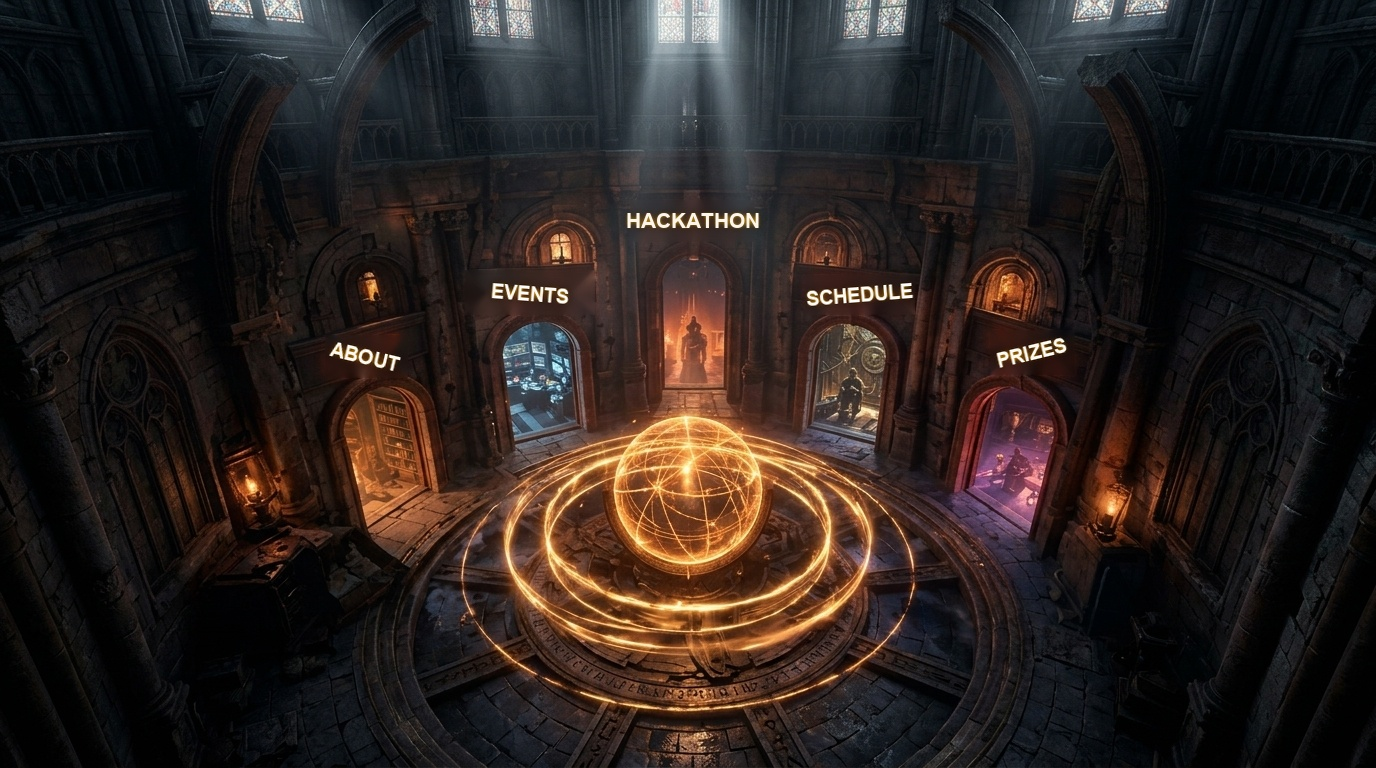
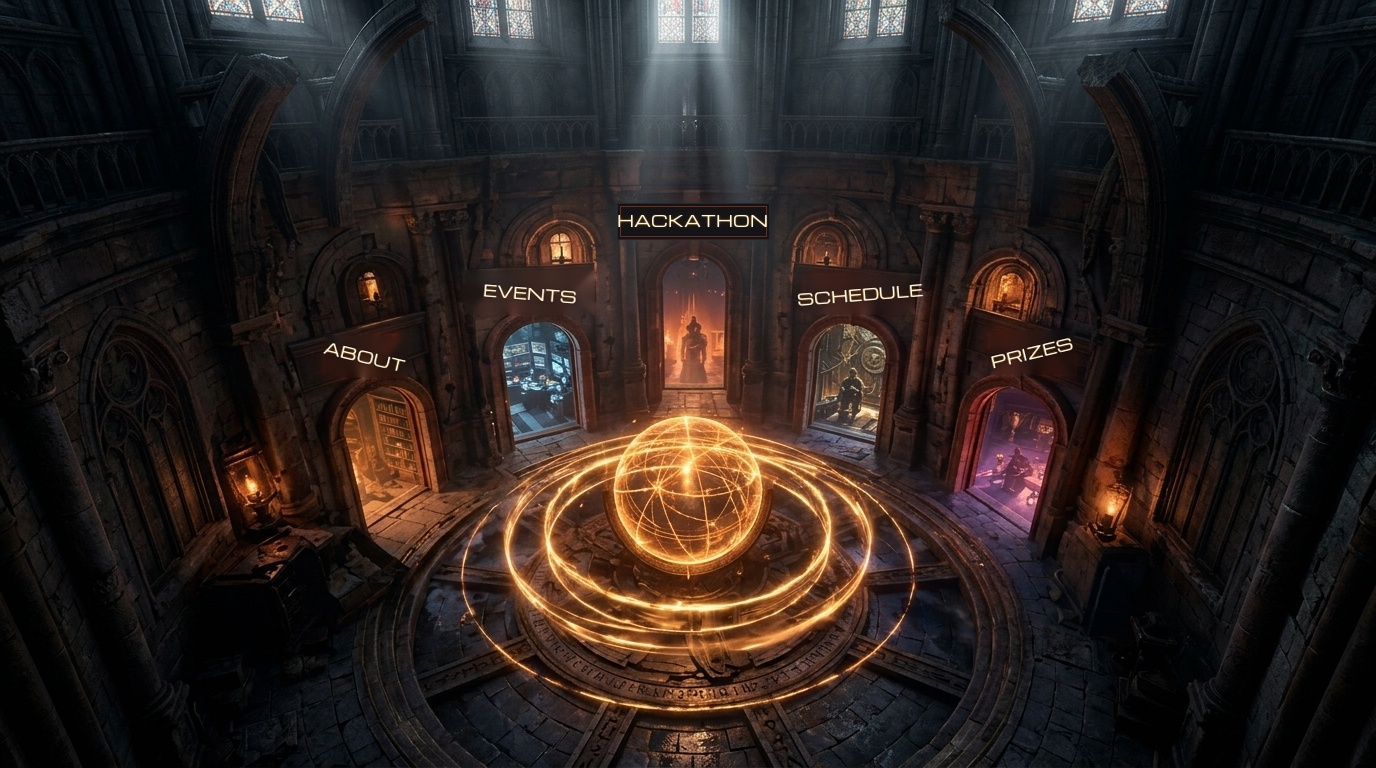
fix: anchor spider thread to ceiling, remove cash prize amounts, unify chamber naming, reduce scroll hold delay

diff --git a/index.html b/index.html
@@ -216,15 +216,15 @@
           <div class="gothic-arch-portal-card chamber-card door-events" data-chamber="events">
             <div class="card-glass-surface">
               <div class="chamber-card-top">
-                <span class="chamber-badge cyan"><span class="badge-dot cyan"></span> 02</span>
-                <i class="fa-solid fa-terminal chamber-icon cyan"></i>
+                <span class="chamber-badge"><span class="badge-dot"></span> 02</span>
+                <i class="fa-solid fa-terminal chamber-icon"></i>
               </div>
               <div class="chamber-info">
                 <h3 class="chamber-heading">EVENTS</h3>
                 <p class="chamber-subtext">Workshops & Coding Contests</p>
               </div>
               <div class="chamber-action">
-                <span class="chamber-cta-btn cyan">ENTER <i class="fa-solid fa-arrow-right"></i></span>
+                <span class="chamber-cta-btn">ENTER <i class="fa-solid fa-arrow-right"></i></span>
               </div>
             </div>
           </div>
@@ -234,15 +234,15 @@
             <div class="featured-glow-pill"><i class="fa-solid fa-crown"></i> FLAGSHIP</div>
             <div class="card-glass-surface featured">
               <div class="chamber-card-top">
-                <span class="chamber-badge gold"><span class="badge-dot gold"></span> 03</span>
-                <i class="fa-solid fa-laptop-code chamber-icon gold"></i>
+                <span class="chamber-badge"><span class="badge-dot"></span> 03</span>
+                <i class="fa-solid fa-laptop-code chamber-icon"></i>
               </div>
               <div class="chamber-info">
-                <h3 class="chamber-heading gold">HACKATHON</h3>
+                <h3 class="chamber-heading">HACKATHON</h3>
                 <p class="chamber-subtext">12-Hour Flagship Sprint</p>
               </div>
               <div class="chamber-action">
-                <span class="chamber-cta-btn gold">JOIN SPRINT <i class="fa-solid fa-arrow-right"></i></span>
+                <span class="chamber-cta-btn">ENTER <i class="fa-solid fa-arrow-right"></i></span>
               </div>
             </div>
           </div>
@@ -259,7 +259,7 @@
                 <p class="chamber-subtext">3-Day Event Timetable</p>
               </div>
               <div class="chamber-action">
-                <span class="chamber-cta-btn">TIMELINE <i class="fa-solid fa-arrow-right"></i></span>
+                <span class="chamber-cta-btn">ENTER <i class="fa-solid fa-arrow-right"></i></span>
               </div>
             </div>
           </div>
@@ -268,15 +268,15 @@
           <div class="gothic-arch-portal-card chamber-card door-prizes" data-chamber="prizes">
             <div class="card-glass-surface">
               <div class="chamber-card-top">
-                <span class="chamber-badge gold"><span class="badge-dot gold"></span> 05</span>
-                <i class="fa-solid fa-trophy chamber-icon gold"></i>
+                <span class="chamber-badge"><span class="badge-dot"></span> 05</span>
+                <i class="fa-solid fa-trophy chamber-icon"></i>
               </div>
               <div class="chamber-info">
                 <h3 class="chamber-heading">PRIZES</h3>
-                <p class="chamber-subtext">Trophies, Medals & Cash</p>
+                <p class="chamber-subtext">Trophies, Medals & Honors</p>
               </div>
               <div class="chamber-action">
-                <span class="chamber-cta-btn">AWARDS <i class="fa-solid fa-arrow-right"></i></span>
+                <span class="chamber-cta-btn">ENTER <i class="fa-solid fa-arrow-right"></i></span>
               </div>
             </div>
           </div>
@@ -417,7 +417,7 @@
         <div class="podium-rank-badge">RUNNER-UP</div>
         <div class="podium-trophy-icon"><i class="fa-solid fa-medal"></i></div>
         <h3 class="podium-title">1st Runner-Up</h3>
-        <p class="podium-detail">Trophy, Silver Medals & Cash Prize</p>
+        <p class="podium-detail">Trophy, Silver Medals & Citations</p>
         <div class="podium-perk-badge">Official TechKnow Honors</div>
       </div>
 
@@ -425,7 +425,7 @@
         <div class="podium-rank-badge gold-badge"><i class="fa-solid fa-crown"></i> GRAND CHAMPION</div>
         <div class="podium-trophy-icon gold"><i class="fa-solid fa-trophy"></i></div>
         <h3 class="podium-title">Grand Champion</h3>
-        <p class="podium-detail">Perpetual CODEC Trophy, Gold Medals & Cash Prize</p>
+        <p class="podium-detail">Perpetual CODEC Trophy, Gold Medals & Championship Honors</p>
         <div class="podium-perk-badge gold-perk">Winner Honors</div>
       </div>
 
@@ -433,7 +433,7 @@
         <div class="podium-rank-badge">2ND RUNNER-UP</div>
         <div class="podium-trophy-icon"><i class="fa-solid fa-award"></i></div>
         <h3 class="podium-title">2nd Runner-Up</h3>
-        <p class="podium-detail">Trophy, Bronze Medals & Cash Prize</p>
+        <p class="podium-detail">Trophy, Bronze Medals & Citations</p>
         <div class="podium-perk-badge">Official TechKnow Honors</div>
       </div>
     </div>

diff --git a/src/cinematic/ChamberManager.js b/src/cinematic/ChamberManager.js
@@ -61,8 +61,8 @@ export const CHAMBERS = {
           </div>
           <div class="stat-divider"></div>
           <div class="stat-row">
-            <span class="stat-val">₹1,00,000+</span>
-            <span class="stat-lbl">REWARDS & CITATIONS</span>
+            <span class="stat-val">HONORS</span>
+            <span class="stat-lbl">TROPHIES & CITATIONS</span>
           </div>
         </div>
       </div>
@@ -272,14 +272,14 @@ export const CHAMBERS = {
     accentColor: '#facc15',
     bg: '/assets/arch_prizes.jpg',
     doorThumb: '/assets/arch_prizes.jpg',
-    tagline: 'Perpetual trophies, gold medals, citations, and cash honors for summit champions.',
+    tagline: 'Perpetual trophies, gold medals, citations, and exclusive honors for summit champions.',
     contentHtml: `
       <div class="chamber-awards-triptych">
         <div class="award-pedestal runner-up-1">
           <div class="award-rank">RUNNER-UP</div>
           <div class="award-badge-icon"><i class="fa-solid fa-medal"></i></div>
           <h4 class="award-name">1st Runner-Up</h4>
-          <p class="award-prize">Silver Medals, Trophy & Cash Honors</p>
+          <p class="award-prize">Silver Medals, Trophy &amp; Official Citations</p>
           <div class="award-perk">Official TechKnow Citation</div>
         </div>
 
@@ -287,7 +287,7 @@ export const CHAMBERS = {
           <div class="award-rank gold"><i class="fa-solid fa-crown"></i> GRAND CHAMPION</div>
           <div class="award-badge-icon gold-glow"><i class="fa-solid fa-trophy"></i></div>
           <h4 class="award-name gold">Grand Champion</h4>
-          <p class="award-prize">Perpetual CODEC Trophy, Gold Medals & Cash Pool</p>
+          <p class="award-prize">Perpetual CODEC Trophy, Gold Medals &amp; Championship Honors</p>
           <div class="award-perk gold">Highest Institutional Honors</div>
         </div>
 
@@ -295,7 +295,7 @@ export const CHAMBERS = {
           <div class="award-rank">2ND RUNNER-UP</div>
           <div class="award-badge-icon"><i class="fa-solid fa-award"></i></div>
           <h4 class="award-name">2nd Runner-Up</h4>
-          <p class="award-prize">Bronze Medals, Trophy & Cash Honors</p>
+          <p class="award-prize">Bronze Medals, Trophy &amp; Official Citations</p>
           <div class="award-perk">Official TechKnow Citation</div>
         </div>
       </div>

diff --git a/src/style.css b/src/style.css
@@ -497,43 +497,53 @@ p,
   z-index: 85;
   pointer-events: auto;
   cursor: pointer;
-  animation: spiderDescend 12s infinite ease-in-out;
+  /* Rig stays anchored at top: 0 so the thread is always attached to the ceiling */
   transform-origin: top center;
+  display: flex;
+  flex-direction: column;
+  align-items: center;
 }
 
 .spider-thread {
-  width: 1px;
-  height: 90px;
+  width: 1.5px;
+  /* Thread height animates — spider descends by thread growing, always anchored at top */
+  height: 50px;
   margin: 0 auto;
-  background: linear-gradient(180deg, rgba(255, 255, 255, 0.6) 0%, rgba(200, 200, 200, 0.25) 100%);
-  box-shadow: 0 0 2px rgba(255, 255, 255, 0.4);
+  background: linear-gradient(180deg, rgba(255, 255, 255, 0.7) 0%, rgba(200, 200, 200, 0.3) 100%);
+  box-shadow: 0 0 2px rgba(255, 255, 255, 0.45);
+  animation: threadGrow 12s infinite ease-in-out;
+  transform-origin: top center;
+  flex-shrink: 0;
 }
 
 .spider-critter {
   width: 44px;
   height: 44px;
-  margin: -6px auto 0;
+  margin: -2px auto 0;
   filter: drop-shadow(0 4px 8px rgba(0, 0, 0, 0.9));
   animation: spiderSway 3.5s infinite ease-in-out;
   transform-origin: top center;
   transition: transform 0.25s ease;
+  flex-shrink: 0;
 }
 
 .spooky-spider-rig:hover .spider-critter {
   transform: scale(1.2) rotate(15deg);
 }
 
-@keyframes spiderDescend {
-  0% { transform: translateY(-40px); }
-  25% { transform: translateY(60px); }
-  50% { transform: translateY(120px); }
-  75% { transform: translateY(30px); }
-  100% { transform: translateY(-40px); }
+/* Thread grows/shrinks — this makes the spider appear to climb up and down
+   while the top of the thread stays pinned to the viewport ceiling */
+@keyframes threadGrow {
+  0%   { height: 50px; }
+  25%  { height: 110px; }
+  50%  { height: 160px; }
+  75%  { height: 80px; }
+  100% { height: 50px; }
 }
 
 @keyframes spiderSway {
-  0%, 100% { transform: rotate(-6deg); }
-  50% { transform: rotate(6deg); }
+  0%, 100% { transform: rotate(-5deg); }
+  50% { transform: rotate(5deg); }
 }
 
 /* ==========================================================================
@@ -607,7 +617,7 @@ p,
 .mansion-scroll-stage {
   position: relative;
   width: 100%;
-  height: 650vh;
+  height: 380vh;
   z-index: 10;
 }
 

diff --git a/src/cinematic/cinematic.css b/src/cinematic/cinematic.css
@@ -339,21 +339,17 @@
   margin-bottom: 0.35rem;
 }
 
-.chamber-heading {
+.chamber-heading,
+.chamber-heading.gold {
   font-family: var(--font-display);
-  font-size: clamp(0.8rem, 1.25vw, 0.98rem);
+  font-size: clamp(0.85rem, 1.3vw, 1.05rem);
   font-weight: 800;
-  letter-spacing: clamp(0.7px, 0.16vw, 1.2px);
+  letter-spacing: clamp(0.8px, 0.18vw, 1.4px);
   color: #ffffff;
   margin-bottom: 0.2rem;
   line-height: 1.25;
-  text-shadow: 0 0 10px rgba(255, 120, 0, 0.35);
+  text-shadow: 0 0 12px rgba(255, 140, 0, 0.45);
   word-break: break-word;
-}
-
-.chamber-heading.gold {
-  color: #ffd700;
-  text-shadow: 0 0 14px rgba(255, 106, 0, 0.6);
 }
 
 .chamber-subtext {

diff --git a/server/routes/stats.js b/server/routes/stats.js
@@ -26,7 +26,7 @@ router.get('/', (req, res) => {
       totalUsers: totalUsers,
       totalRsvps: totalRsvps,
       guildsFormed: 48,
-      prizePool: '₹2,50,000+'
+      prizePool: 'OFFICIAL HONORS & MERCH'
     });
   } catch (err) {
     console.error('Stats error:', err);
